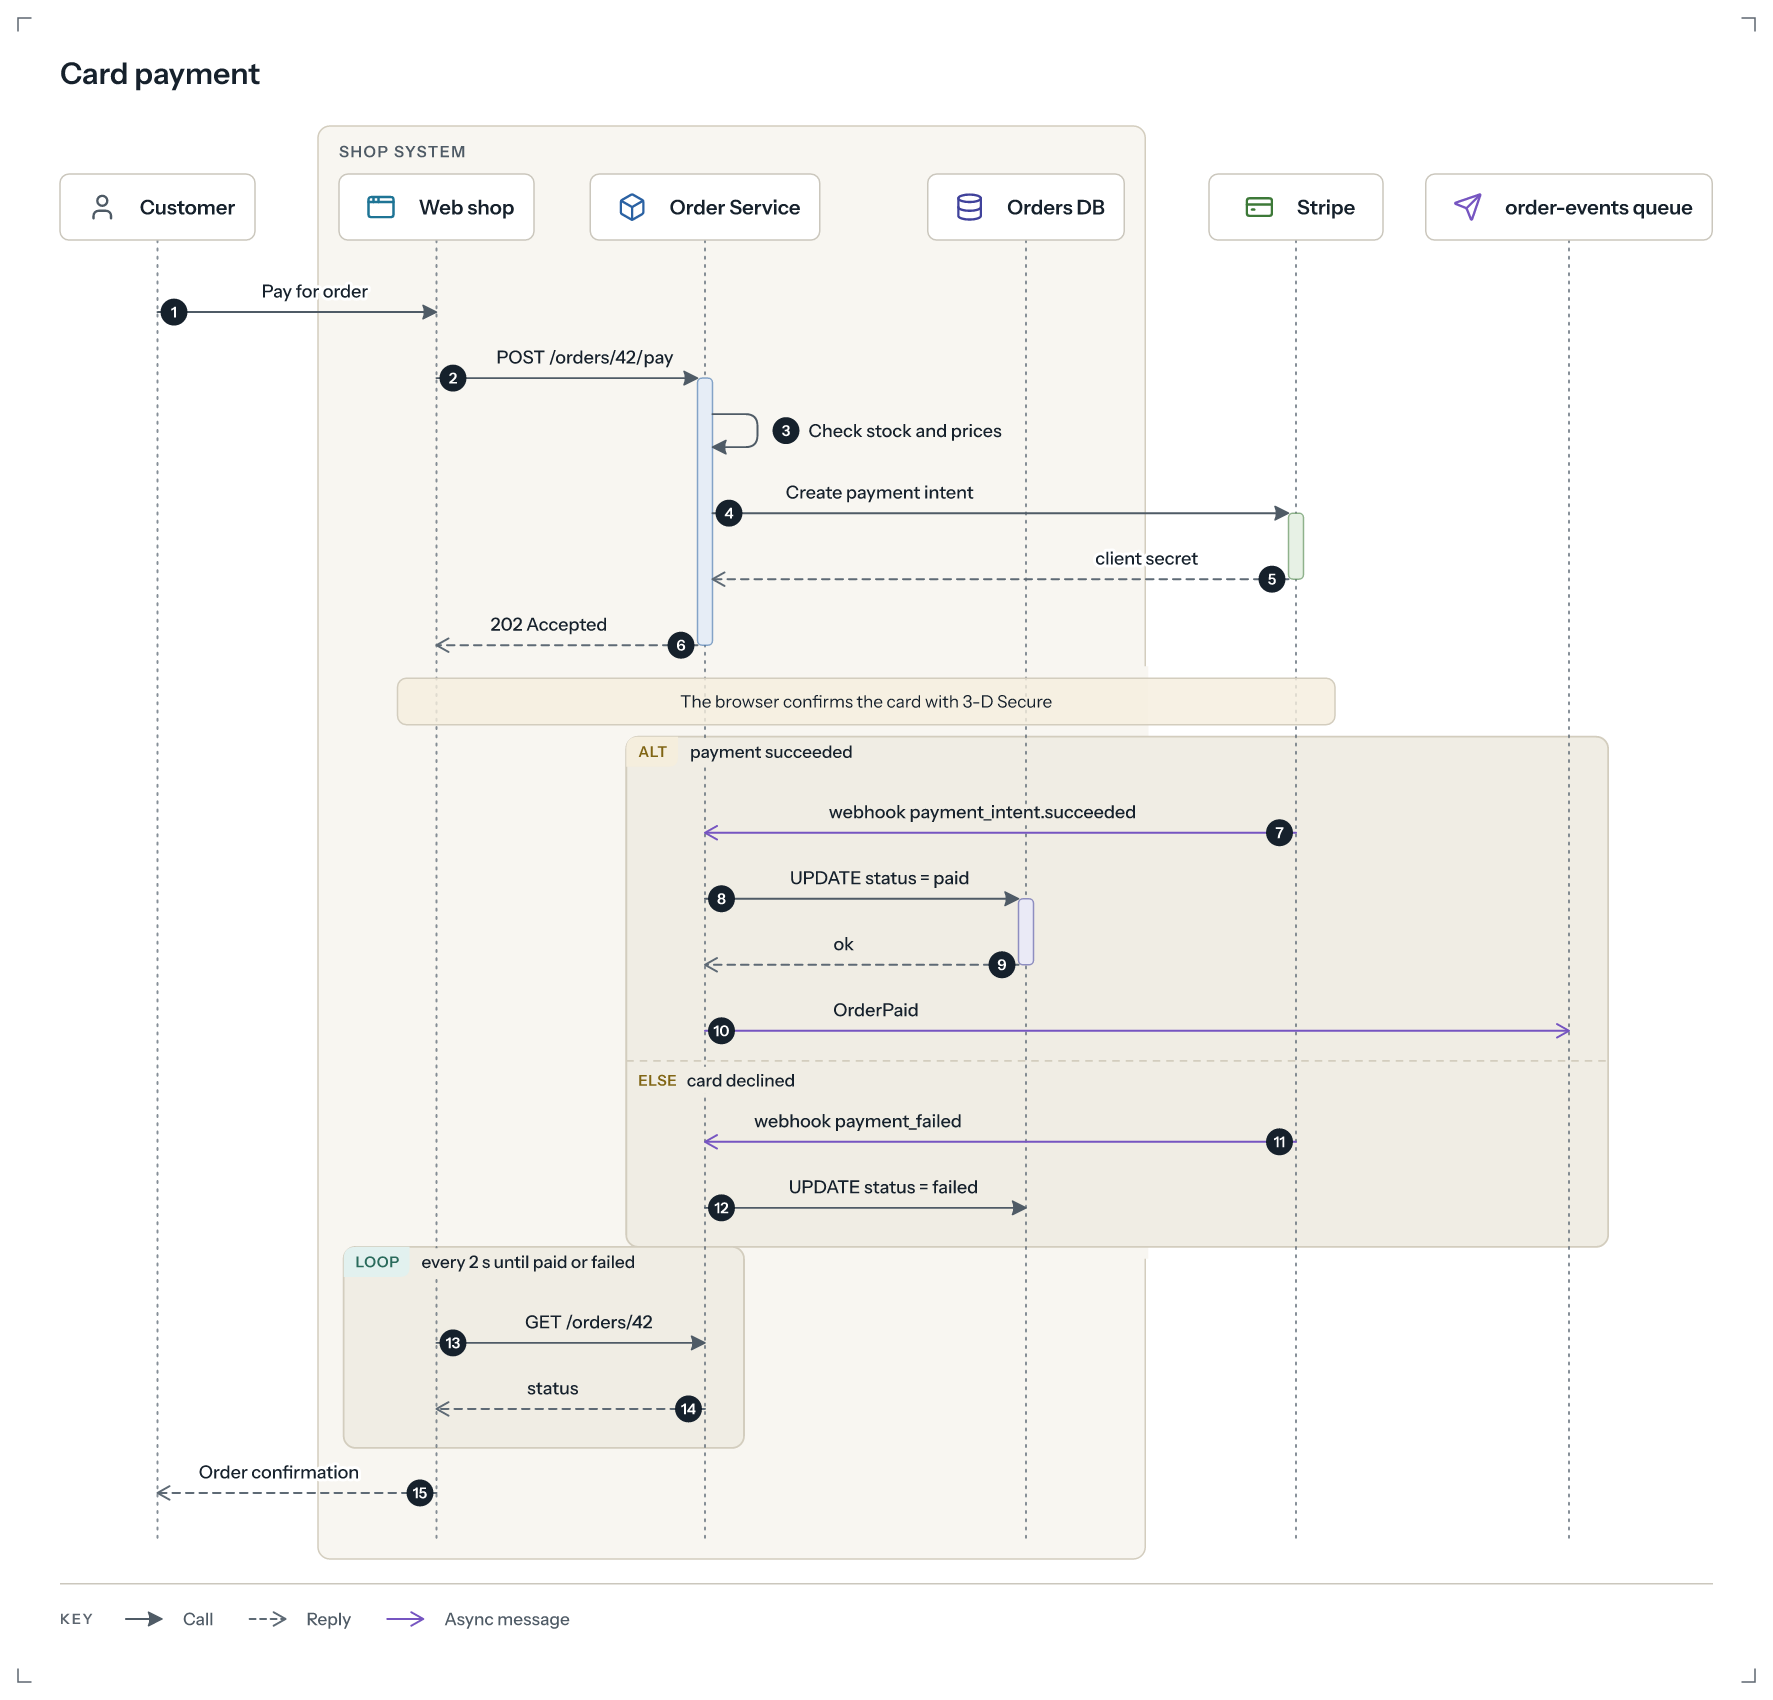
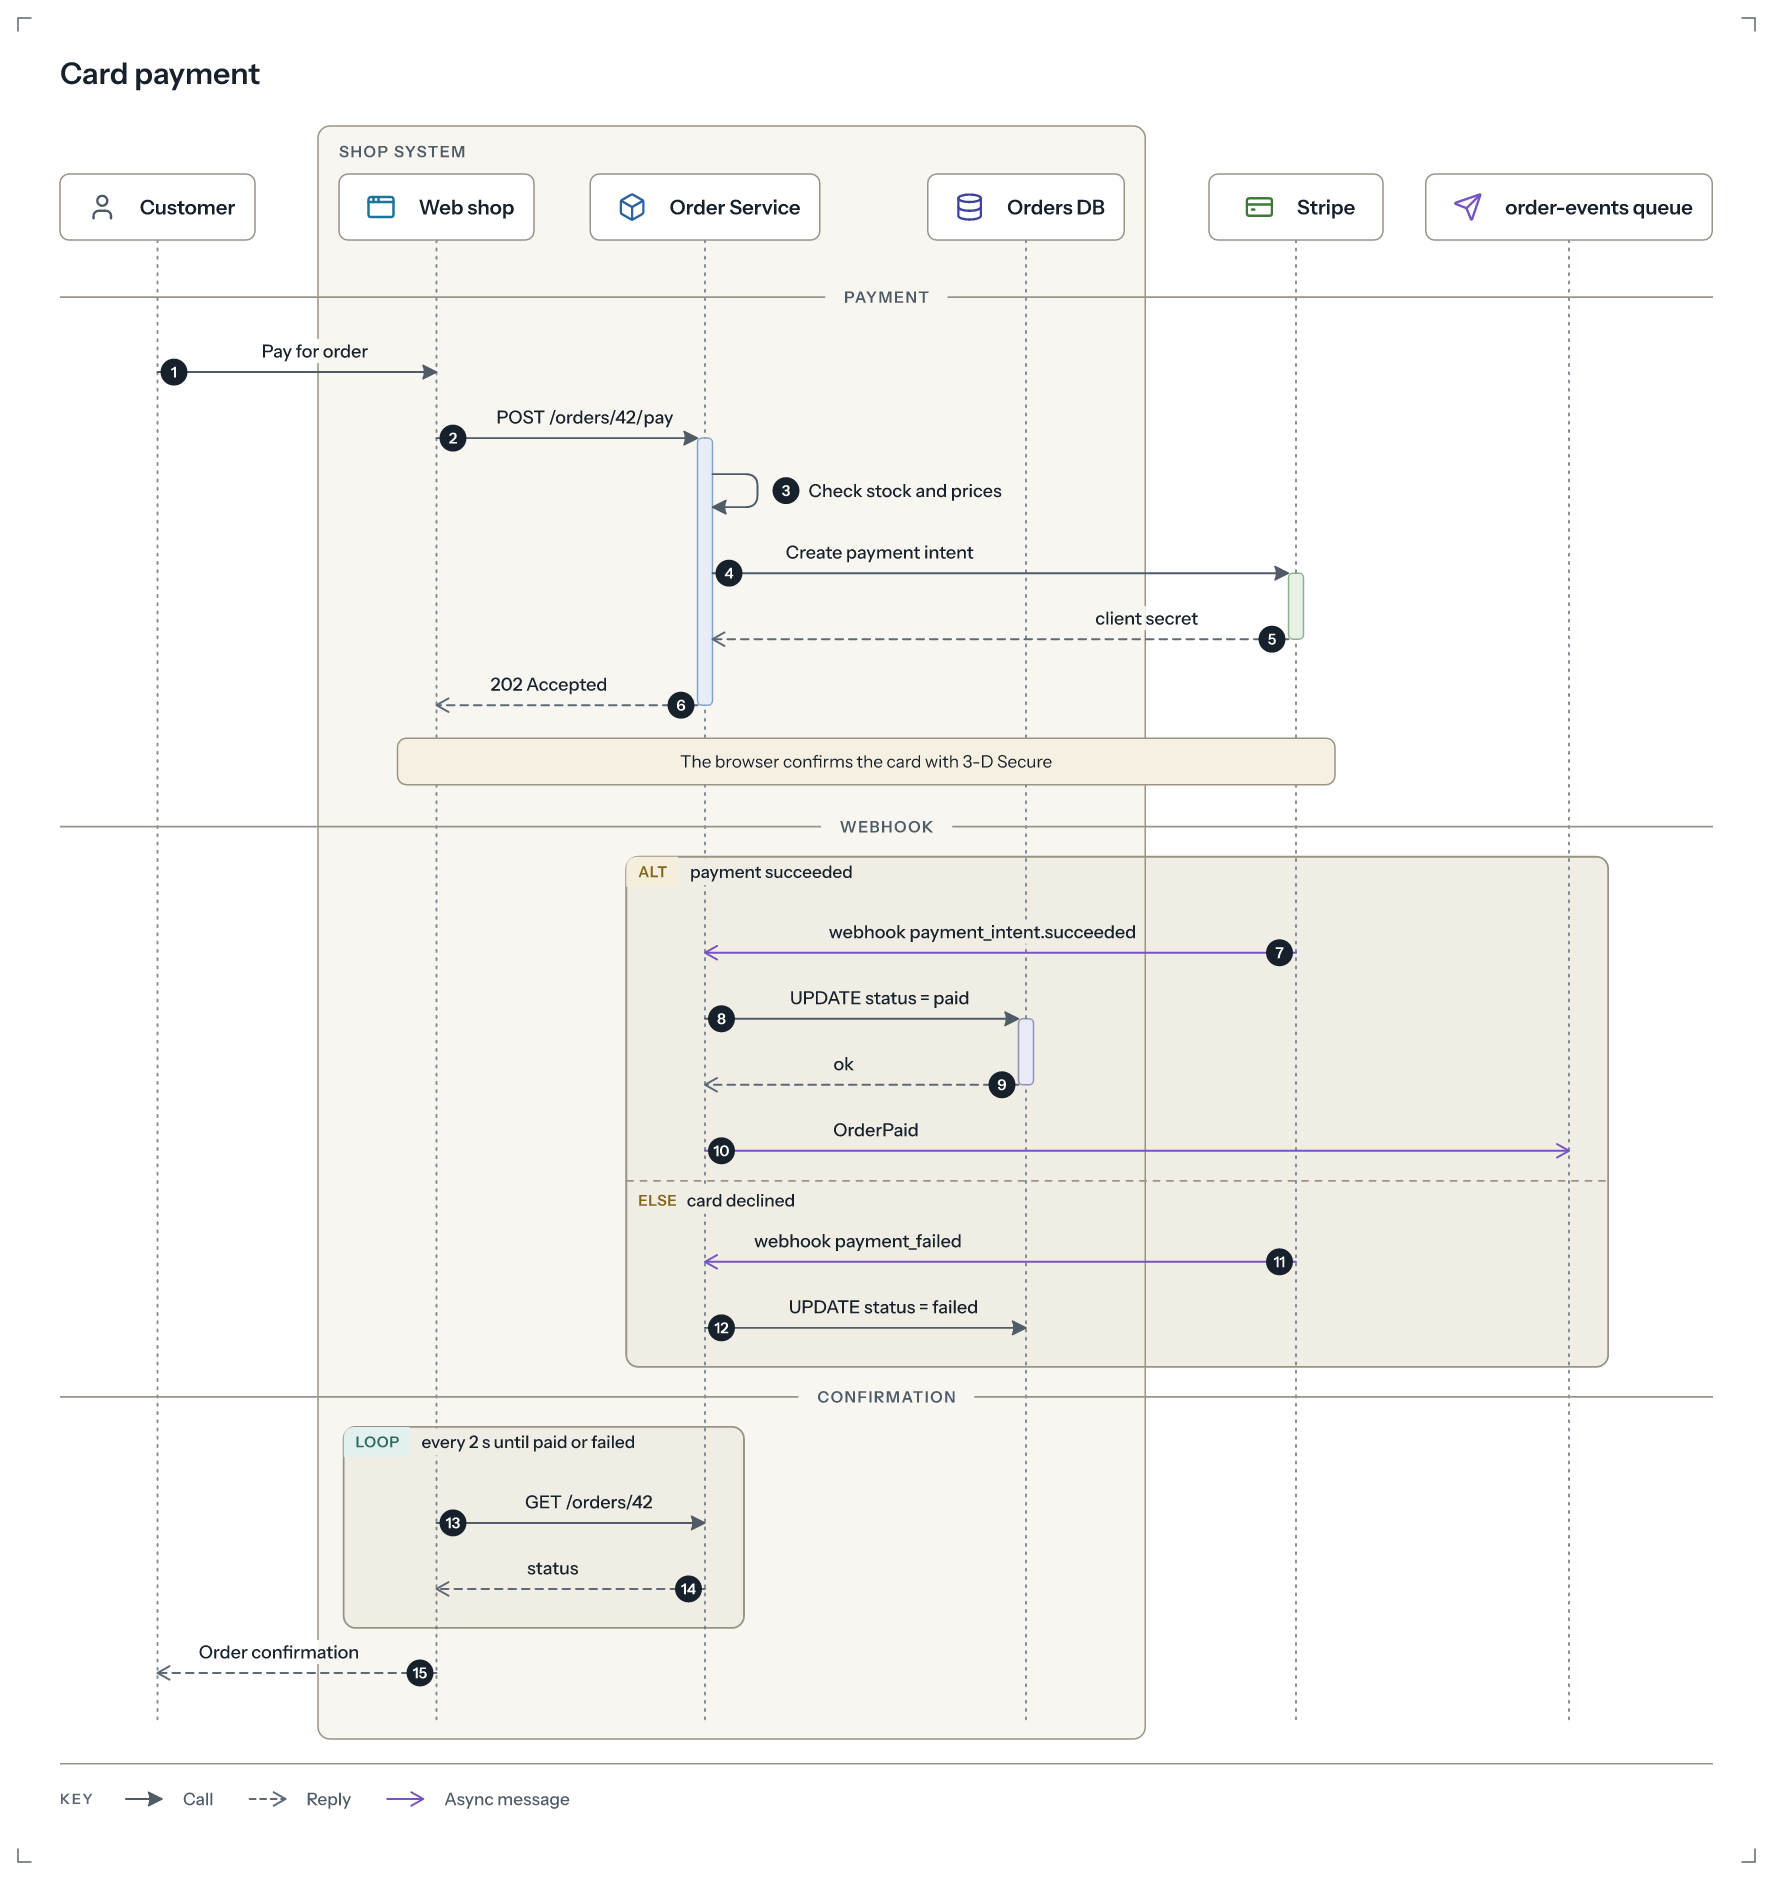
The card payment of the comparison goes on slides phase by phase, and the comparison says its dividers were added by hand
Claude-Session: https://claude.ai/code/session_01NyzyPkQaBB3gWNkpmM43DZ

diff --git a/packages/cli/src/compare.ts b/packages/cli/src/compare.ts
@@ -1,6 +1,6 @@
 // Renders docs/comparison/src/<name>.mmd with Mermaid itself (in headless Chromium), <name>.d2 with D2
 // when the d2 binary is installed, and the same diagram in Cartography, side by side in png/.
-// Cartography's YAML in cartography/ was converted from the Mermaid once and is not hand-tuned.
+// Cartography's YAML in cartography/ was converted from the Mermaid once and is not hand-tuned (the card payment's dividers aside).
 import fs from 'node:fs';
 import path from 'node:path';
 import { execFileSync } from 'node:child_process';

diff --git a/docs/comparison/README.md b/docs/comparison/README.md
@@ -2,13 +2,14 @@
 
 Eleven everyday diagrams, written once in Mermaid (and by hand in D2 where D2 has the kind), each drawn by its own tool.
 The Cartography column is **not hand-tuned**: it is the Mermaid source converted to YAML once, by the
-importer Cartography had then, and rendered as is. The YAML is in [`cartography/`](cartography/).
+importer Cartography had then, and rendered as is. The YAML is in [`cartography/`](cartography/). One thing
+was added by hand since: the card payment's three `divider:` lines, so that it goes on slides phase by phase.
 
 | Source | What |
 | --- | --- |
 | [`src/*.mmd`](src/) | Mermaid, rendered with the `mermaid` npm package (default theme) in headless Chromium |
 | [`src/*.d2`](src/) | D2 0.9, default layout (dagre) and theme |
-| [`cartography/*.yaml`](cartography/) | `src/<name>.mmd` converted, untouched, default light theme |
+| [`cartography/*.yaml`](cartography/) | `src/<name>.mmd` converted, untouched (but for the card payment's dividers), default light theme |
 
 Regenerate everything with `pnpm compare` (needs `d2` on the PATH for the D2 column: `brew install d2`).
 
@@ -123,10 +124,12 @@ Imported as a `sequence` diagram: the actor became a person, "Orders DB" a datab
 queue" a queue, each with its icon; `->>` became a call, `-->>` a reply and `-)` an async message
 (violet, open head); the `box` became a tinted participant box, the `+`/`-` activations stay exactly as
 written (`activations: explicit`). Every message owns its row and each gap between lifelines is as
-wide as its widest label, so no label crosses a lifeline or a number badge. Mermaid's labels sit on
+wide as its widest label, so no label crosses a lifeline or a number badge. The three phases
+(Payment, Webhook, Confirmation) are the `divider:` lines added by hand: Mermaid has no dividers, and
+fifteen messages are too many for one readable slide, so PowerPoint gets a slide per phase. Mermaid's labels sit on
 the lifelines they cross ("Check stock and prices", "Create payment intent") and its loop condition
 wraps into the frame; D2 keeps labels clear by cutting the line around them, but has no participant
-boxes or numbering and comes out almost twice as tall. Mermaid still has the stick-figure actor that
+boxes or numbering and comes out half as tall again. Mermaid still has the stick-figure actor that
 people recognise at once, and repeats the headers at the bottom by default (`footers: true` here).
 
 ## Release with a hotfix (gitGraph)
